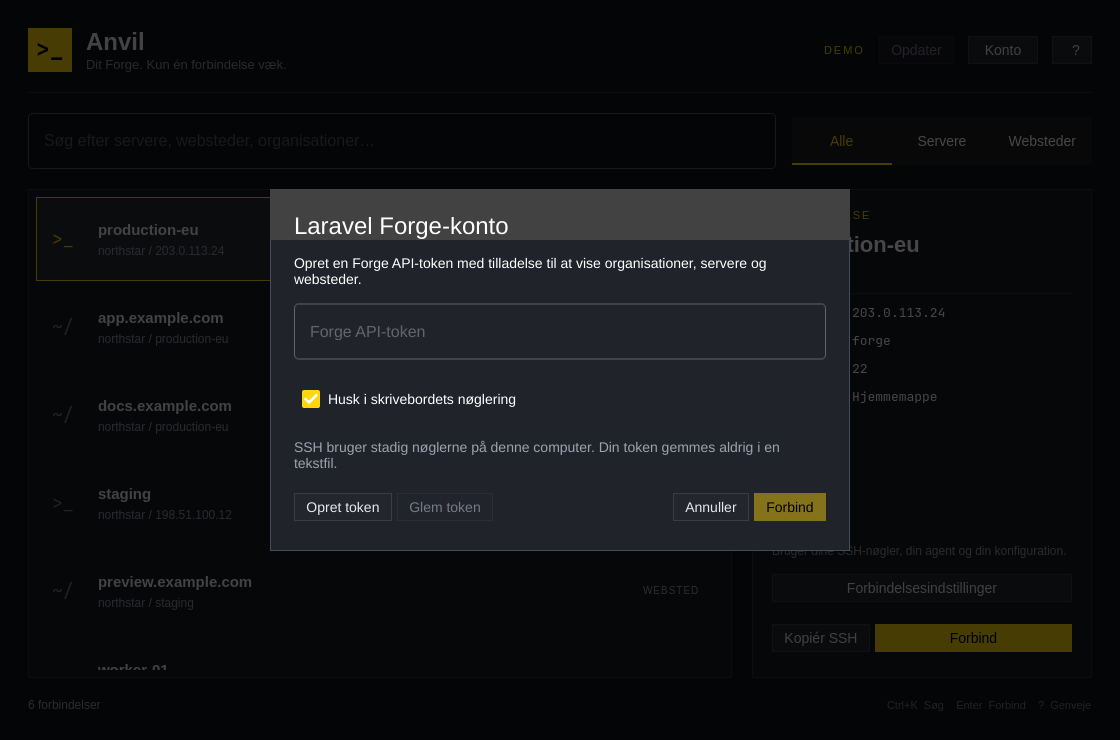
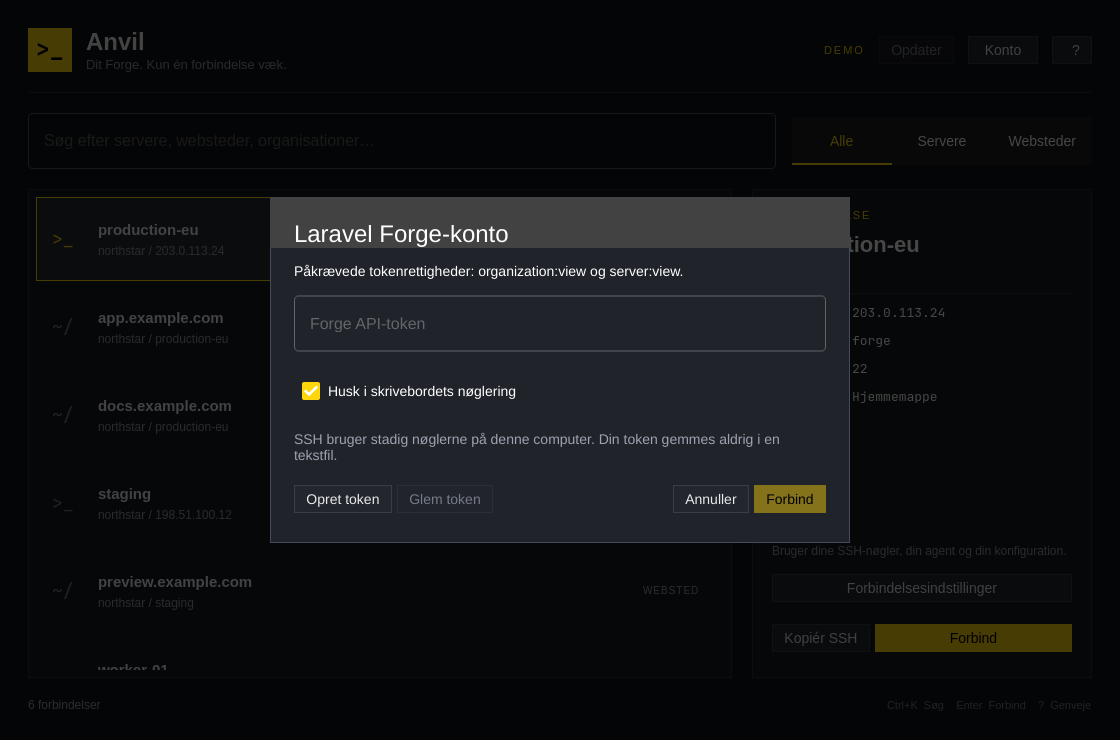
Include server relationships when loading sites

Changed region(s): [[0.25, 0.2486, 0.75, 0.5595], [0.2188, 0.5905, 0.75, 0.7459]]

diff --git a/src/Main.qml b/src/Main.qml
@@ -232,7 +232,7 @@ ApplicationWindow {
             LayoutMirroring.enabled: Qt.application.layoutDirection === Qt.RightToLeft
             LayoutMirroring.childrenInherit: true
             spacing: 16
-            Label { text: qsTr("Create a Forge API token with permission to list organizations, servers, and sites."); wrapMode: Text.Wrap; Layout.fillWidth: true }
+            Label { text: qsTr("Required token scopes: organization:view and server:view."); wrapMode: Text.Wrap; Layout.fillWidth: true }
             TextField { id: token; objectName: "token"; placeholderText: qsTr("Forge API token"); echoMode: TextInput.Password; selectByMouse: true; Layout.fillWidth: true }
             CheckBox { id: remember; text: qsTr("Remember in the desktop keyring"); checked: true }
             Label { text: qsTr("SSH still uses the keys already on this computer. Your token is never stored in a text file."); color: "#9ca2af"; wrapMode: Text.Wrap; Layout.fillWidth: true }

diff --git a/tests/anvil_tests.cpp b/tests/anvil_tests.cpp
@@ -89,6 +89,61 @@ void AnvilTests::apiRejectsForeignPagination() {
         QVERIFY(backend.error().contains("unsafe"));
         QCOMPARE(server.requests.size(), 1);
     }
+void AnvilTests::apiIncludesServersOnEverySitePage() {
+        FakeForge server;
+        server.respond = [](const QByteArray &path) -> QByteArray {
+            if (path == "/api/orgs") return R"({"data":[{"id":"1","attributes":{"slug":"studio"}}]})";
+            if (path == "/api/orgs/studio/servers") return R"({"data":[{"id":"44","attributes":{"name":"prod","ip_address":"203.0.113.7","ssh_port":22,"is_ready":true}}]})";
+            // Forge may omit linkage unless the relationship is requested.
+            if (!path.contains("include=server")) return R"({"data":[{"id":"81","attributes":{"name":"example.com"}}]})";
+            if (!path.contains("cursor")) return R"({"data":[{"id":"81","attributes":{"name":"example.com","user":"forge","root_directory":"/home/forge/example.com"},"relationships":{"server":{"data":{"id":"44"}}}}],"links":{"next":"/api/orgs/studio/sites?page%5Bcursor%5D=next"}})";
+            return R"({"data":[{"id":"82","attributes":{"name":"docs.example.com","user":"docs","root_directory":"/home/docs/docs.example.com"},"relationships":{"server":{"data":{"id":"44"}}}}]})";
+        };
+        Backend backend(false, server.base());
+        QSignalSpy finished(&backend, &Backend::refreshFinished);
+        backend.authenticate("test-token", false);
+        QTRY_COMPARE(finished.count(), 1);
+        QVERIFY2(backend.error().isEmpty(), qPrintable(backend.error()));
+        backend.setFilter(2);
+        QCOMPARE(backend.entries().size(), 2);
+        QCOMPARE(server.requests.size(), 4);
+        for (const auto &request : server.requests) {
+            if (request.startsWith("GET /api/orgs/studio/sites")) QVERIFY(request.split(' ').at(1).contains("include=server"));
+        }
+    }
+void AnvilTests::apiReportsUnmatchedSites() {
+        FakeForge server;
+        server.respond = [](const QByteArray &path) -> QByteArray {
+            if (path == "/api/orgs") return R"({"data":[{"id":"1","attributes":{"slug":"studio"}}]})";
+            if (path.endsWith("/servers")) return R"({"data":[{"id":"44","attributes":{"name":"prod","ip_address":"203.0.113.7","ssh_port":22}}]})";
+            return R"({"data":[{"id":"81","attributes":{"name":"example.com"}}]})";
+        };
+        Backend backend(false, server.base());
+        QSignalSpy finished(&backend, &Backend::refreshFinished);
+        backend.authenticate("test-token", false);
+        QTRY_COMPARE(finished.count(), 1);
+        QVERIFY(backend.error().contains("without a matching server"));
+        QCOMPARE(backend.total(), 1);
+    }
+void AnvilTests::apiReportsRequiredScopes() {
+        FakeForge server;
+        server.status = 403;
+        server.respond = [](const QByteArray &) { return QByteArray("{}"); };
+        Backend backend(false, server.base());
+        QSignalSpy finished(&backend, &Backend::refreshFinished);
+        backend.authenticate("test-token", false);
+        QTRY_COMPARE(finished.count(), 1);
+        QVERIFY(backend.error().contains("organization:view"));
+        server.status = 200;
+        server.respond = [&server](const QByteArray &path) -> QByteArray {
+            server.status = path == "/api/orgs" ? 200 : 403;
+            if (path == "/api/orgs") return R"({"data":[{"id":"1","attributes":{"slug":"studio"}}]})";
+            return "{}";
+        };
+        backend.refresh();
+        QTRY_COMPARE(finished.count(), 2);
+        QVERIFY(backend.error().contains("server:view"));
+    }
 void AnvilTests::apiRejectsMalformedResponses() {
         FakeForge server;
         server.respond = [](const QByteArray &) { return QByteArray("not json"); };

diff --git a/src/backend.cpp b/src/backend.cpp
@@ -128,6 +128,17 @@ void Backend::next() {
     if (m_tasks.isEmpty()) {
         m_busy = false;
         rebuild();
+        int unmatched = 0;
+        for (const auto &value : m_sites) {
+            const auto site = value.toMap();
+            const bool matched = std::any_of(m_servers.cbegin(), m_servers.cend(), [&site](const QVariant &serverValue) {
+                const auto server = serverValue.toMap();
+                return !site.value("serverId").toString().isEmpty() && site.value("serverId") == server.value("id") && site.value("org") == server.value("org");
+            });
+            if (!matched) ++unmatched;
+        }
+        if (unmatched > 0 && m_error.isEmpty()) fail(tr("Forge returned %n sites without a matching server. Refresh or check server access.", nullptr, unmatched));
+        if (!m_servers.isEmpty() && m_sites.isEmpty() && m_error.isEmpty()) m_message = tr("Loaded %n servers; Forge returned no sites.", nullptr, m_servers.size());
         if (m_entries.isEmpty() && m_error.isEmpty()) m_message = tr("No servers or sites are visible to this token.");
         emit stateChanged(); emit refreshFinished();
         return;
@@ -152,7 +163,7 @@ void Backend::next() {
         const int status = reply->attribute(QNetworkRequest::HttpStatusCodeAttribute).toInt();
         if (reply->error() != QNetworkReply::NoError || status != 200) {
             if (status == 401) { fail(tr("Forge rejected this token. Open Account and enter a new token.")); m_tasks.clear(); }
-            else if (status == 403) fail(tr("This token cannot read %1. Check its Forge permissions.").arg(task.url.path()));
+            else if (status == 403) fail(tr("This token cannot read %1. Required scope: %2.").arg(task.url.path(), task.kind == "orgs" ? "organization:view" : "server:view"));
             else if (status == 429) {
                 fail(tr("Forge rate limit reached. Wait %1 seconds, then refresh.").arg(QString::fromUtf8(reply->rawHeader("Retry-After").isEmpty() ? QByteArray("60") : reply->rawHeader("Retry-After"))));
                 m_tasks.clear();
@@ -177,7 +188,8 @@ void Backend::consume(const QJsonObject &document, const Task &task) {
             if (org.isEmpty()) { fail(tr("An organization has no API slug.")); continue; }
             const auto encoded = QString::fromLatin1(QUrl::toPercentEncoding(org));
             m_tasks.enqueue({endpoint("orgs/" + encoded + "/servers"), "servers", org});
-            m_tasks.enqueue({endpoint("orgs/" + encoded + "/sites"), "sites", org});
+            // The server relationship is optional unless explicitly included.
+            m_tasks.enqueue({endpoint("orgs/" + encoded + "/sites?include=server"), "sites", org});
         } else if (task.kind == "servers") {
             attributes["org"] = task.org;
             attributes["host"] = attributes.value("ip_address");
@@ -204,7 +216,15 @@ void Backend::consume(const QJsonObject &document, const Task &task) {
     if (!url.isEmpty()) {
         // Pagination must never forward a bearer token to another origin or endpoint.
         if (url.scheme() != m_base.scheme() || url.host() != m_base.host() || url.port() != m_base.port() || url.path() != task.url.path() || !url.userInfo().isEmpty()) fail(tr("Forge returned an unsafe pagination link."));
-        else m_tasks.prepend({url, task.kind, task.org});
+        else {
+            if (task.kind == "sites") {
+                QUrlQuery query(url);
+                query.removeAllQueryItems("include");
+                query.addQueryItem("include", "server");
+                url.setQuery(query);
+            }
+            m_tasks.prepend({url, task.kind, task.org});
+        }
     }
     rebuild();
 }

diff --git a/tests/anvil_tests.h b/tests/anvil_tests.h
@@ -5,6 +5,9 @@ class AnvilTests : public QObject {
 private slots:
     void demoSearchAndFilters();
     void apiDiscoversAndPaginates();
+    void apiIncludesServersOnEverySitePage();
+    void apiReportsUnmatchedSites();
+    void apiReportsRequiredScopes();
     void apiRejectsForeignPagination();
     void apiRejectsMalformedResponses();
     void apiReportsRateLimits();

diff --git a/README.md b/README.md
@@ -6,7 +6,7 @@ Built with C++ and Qt Quick, packaged with makepkg, and installed as a single bi
 
 ## Get started
 
-Open **Anvil** from the application launcher (`Super + Space`), choose **Connect Laravel Forge**, and enter a token from [Forge's API settings](https://forge.laravel.com/profile/api). The token needs access to list organizations, servers, and sites. The app only makes GET requests to Forge.
+Open **Anvil** from the application launcher (`Super + Space`), choose **Connect Laravel Forge**, and enter a token from [Forge's API settings](https://forge.laravel.com/profile/api). The token needs `organization:view` and `server:view`; Forge uses `server:view` for site listings too. The app only makes GET requests to Forge.
 
 Leave **Remember in the desktop keyring** checked to save the token through Secret Service (`secret-tool`). Uncheck it to keep the supplied token in memory for this session. **Account → Forget token** clears the saved credential. The app does not write a token, inventory cache, or SSH configuration to disk.
 
@@ -55,7 +55,7 @@ Inventory commands read `FORGE_API_TOKEN` from the environment; provide it throu
 
 ## API and limits
 
-Uses the [current Forge API](https://laravel.com/forge/docs/api-reference/introduction), organization-scoped server/site endpoints, and [cursor pagination](https://laravel.com/forge/docs/api-reference/pagination). Requests run sequentially, have timeouts, and reject redirects and foreign pagination links. Permission failures and rate limits appear in the window. Refresh again after a rate limit's stated wait.
+Uses the [current Forge API](https://laravel.com/forge/docs/api-reference/introduction), organization-scoped server/site endpoints, and [cursor pagination](https://laravel.com/forge/docs/api-reference/pagination). Site requests explicitly include the server relationship on every page so sites can be matched to their SSH host. Requests run sequentially, have timeouts, and reject redirects and foreign pagination links. Permission failures, unmatched sites, and rate limits appear in the window. Refresh again after a rate limit's stated wait.
 
 No real Forge account is included in the tests. Live inventory and remote SSH authentication require your token and existing server access.
 
